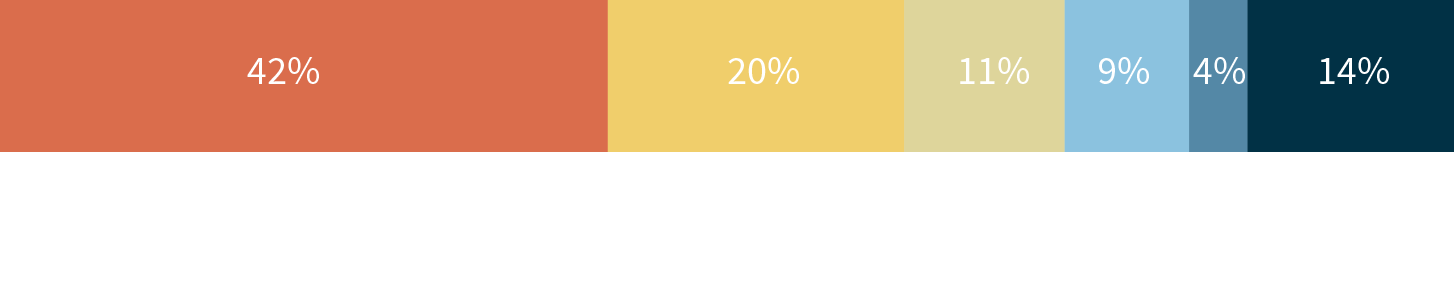
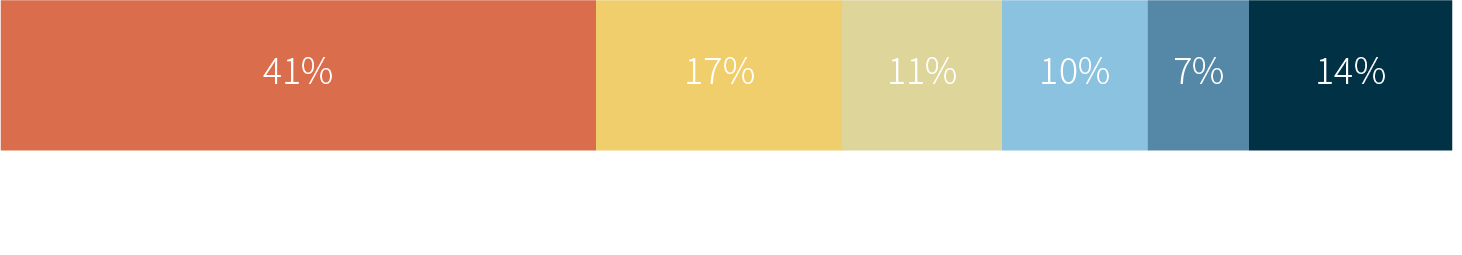
update reason_intro

Changed region(s): [[0.0, 0.0, 1.0, 0.6039], [0.1547, 0.1922, 0.2476, 0.3294], [0.8975, 0.1922, 0.9594, 0.3294]]

diff --git a/index.html b/index.html
@@ -726,7 +726,7 @@
             <div class="row">
                 <div class="slideanimate1">
                     <h3>｜事故原因百百種，登山前你準備好了嗎？</h3>
-                    <p><br>檢視2020年山域事故發生主因，以迷路、創傷、疾病佔最大宗，墜谷、高山症、疲勞、遲歸也是原因之一。
+                    <p><br>檢視2020年山域事故發生主因，以迷路、創傷、墜谷佔最大宗，疾病、遲歸、高山症也是原因之一。
                     </p>
                     <div class="gallery" style="padding-top: 15vh;">
                         <img src="assets/reason_intro.png" alt="" width="100%" height="100%">
